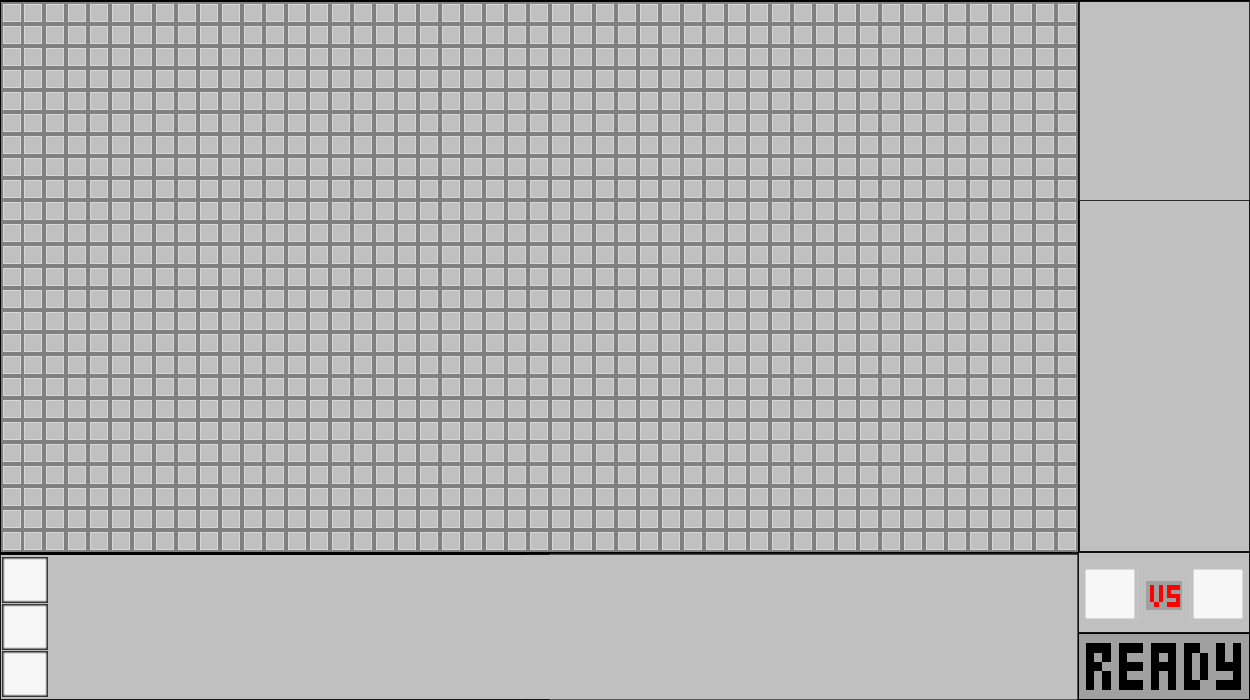
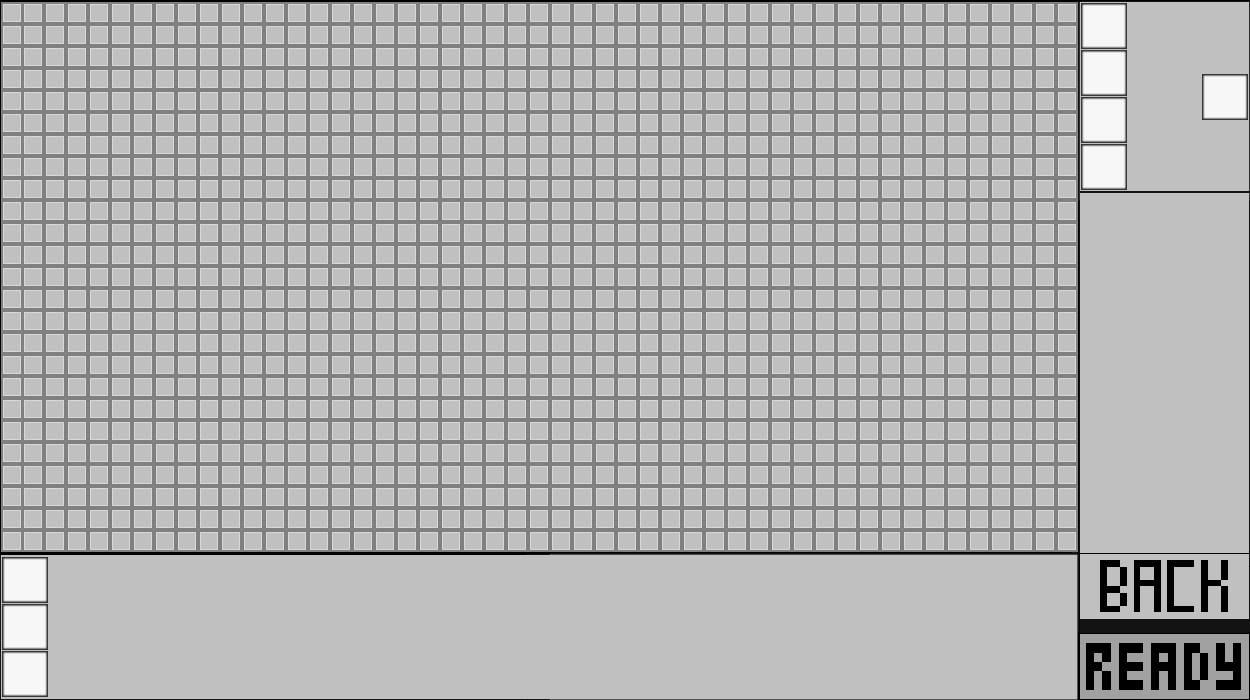
The prep for equips and move scrolls
The clam before the swarm

Changed region(s): [[0.8424, 0.0, 0.9984, 0.3], [0.8424, 0.78, 1.0, 0.9], [0.936, 0.09, 0.9984, 0.18]]

diff --git a/turn_based_battle/defs.py b/turn_based_battle/defs.py
@@ -957,9 +957,9 @@ instantkill.desc = "BAM! You dead now."
 
 
 class Equip(object):
-	def __init__(self, name, atk, int, con, mag, agil, crit, dodgeChance, lvl, slot):
+	def __init__(self, name, str, int, con, mag, agil, crit, dodgeChance, lvl, slot):
 		self.name = name
-		self.atk = atk
+		self.str = str
 		self.int = int
 		self.con = con
 		self.mag = mag
@@ -1020,6 +1020,14 @@ class Char(object):
 		self.aimisc = 0
 		self.isAi = False
 		self.equips = {"Head":emptySlot, "Chest":emptySlot, "Legs":emptySlot, "Feet":emptySlot, "Weapon":emptySlot}
+		self.equipStr = 0
+		self.equipInt = 0
+		self.equipCon = 0
+		self.equipMag = 0
+		self.equipAgil = 0
+		self.equipCrit = 0
+		self.equipDodgeChance = 0
+		self.ableSkills = []
 
 
 	def updateEquips(self):
@@ -1038,27 +1046,36 @@ class Char(object):
 	def buildNew(self):
 		newchar = Char(self.name, self.types, self.hp, self.str, self.int, self.con, self.mag, self.agil, self.crit, self.dodgeChance, self.lvl, self.xp, self.skills, self.ability, pygame.transform.scale(pygame.image.load(self.image), [50, 50]), self.cords, pygame.transform.scale(pygame.image.load(self.image), [42, 42]))
 		newchar.img = pygame.image.load(self.image)
+		newchar.ableSkills = self.ableSkills
 		newchar.target = [NOT]
 		return newchar
 		
 	def reBuild(self):
 		newchar = Char(self.name, self.types, self.hp, self.str, self.int, self.con, self.mag, self.agil, self.crit, self.dodgeChance, self.lvl, self.xp, self.skills, self.ability, self.image, self.cords, self.menuImg)
 		newchar.img = self.image
+		newchar.ableSkills = self.ableSkills
 		return newchar
 	
 		
 NOT = Char("???", [unknown], 0, 0, 0, 0, 0, 0, 0, 0, 1, 0, [nothing], "", "Assets/battlers/locked.png", [-1,0], "")
+NOT.ableSkills = [nothing]
 
 Mage = Char("Meigis", [normal, chaos], 500, 5, 15, 5, 15, 4, 0, 10, 1, 0, [basicAtk, fireBall, waterSpout, airBlast, earthShot, defend], "", "Assets/battlers/Mage.png", [5,0], "")
+Mage.ableSkills = [fireball, waterSpout, airBlast, earthShot]
 
 Mouther = Char("Mouther", [earth], 500, 20, 0, 10, 5, 4, 0, 10, 1, 0, [basicAtk, bite, consumeFlesh, defend], "", "Assets/battlers/Mouther.png", [4,0], "")
+Mouther.ableSkills = []
 
 Maice = Char("Maice", [normal], 500, 15, 15, 10, 10, 6, 2, 11, 1, 0, [basicAtk, slash, bite, eggon], "", "Assets/battlers/nazrin.png", [3, 0], "") 
+Maice.ableSkills = []
 
 Nic = Char("Nic", [chaos], 500, 15, 50, 10, 25, 4, 0, 10, 1, 0, [basicAtk, magicMute, shardSwarm, powerUp, defend], "", "Assets/battlers/nic.png", [5,8], "")
+Nic.ableSkills = []
 Epic = Char("Epic", [tech], 1000, 25, 50, 35, 45, 7, 10, 10, 1, 0, [basicAtk,energiBeam, wellspring, defend], "", "Assets/battlers/epic.png", [7,8], "")
+Epic.ableSkills = []
 
 Scarlet = Char("Scarlet", [dark, blood], 100, 20, 20, 5, 20, 6, 0, 10, 1, 0, [basicAtk, scar, vampire, destroy, lifePact, defend], "", "Assets/battlers/vamp.png", [1,0], "")
+Scarlet.ableSkills = [scar, vampire, destroy, lifePact, consumeFlesh]
 
 Flan = Char("Flan", [dark,blood], 200, 35, 30, 10, 20, 7, 10, 20, 1, 0, [slash, rip, scar, vampire, destroy, lifePact, setFire, lifeTransfer], "watch them burn", "Assets/battlers/flandre.png", [5,7], "")
 Nue = Char("Nue", [astral, dark], 300, 25, 40, 10, 50, 4, 15, 10, 1, 0, [basicAtk, meteorStorm, powerTransfer, forceShield, powerDrain, stab, meditate, defend], "Unidentifiable", "Assets/battlers/nue.png", [4,7], "")
@@ -1070,13 +1087,19 @@ Koishi = Char("Koishi", [unknown, physic], 400, 10, 55, 80, 100, 10, 6, 30, 1, 0
 Nou = Char("Nou Furueteru", [physic], 300, 10, 50, 55, 90, 11, 7, 25, 1, 0, [colorfulBullet, mindDisk, mindReading, recover, forceShield, rejuvinate, meditate, defend], "", "Assets/battlers/Nou.png", [8,8], "")
 
 Alpha = Char("Alpha", [normal, earth, fighting], 500, 50, -50, 30, 5, 5, 0, 10, 1, 0, [basicAtk, slash, cleave, bladeFlash, revenge, mend, defend], "", "Assets/battlers/alpha.png", [8,4], "")
+Alpha.ableSkills = [slash, cleave, bladeFlash, revenge, mend, windSlash] 
 Siv = Char("Siv", [normal, earth, dark, physic, chaos, magic], 250, 0, 50, 0, 38, 5, 7, 10, 1, 0, [basicAtk, chaosBolt, setFire, forceShield, chaosBeam, meditate, lifePact, shroud], "", "Assets/battlers/siv.png", [4,2], "")
+Siv.ableSkills = [chaosBolt, setFire, forceShield, chaosBeam, meditate, lifePact, shroud, confuse] 
 
 Durric = Char("Durric", [earth, light, fighting, physic], 1000, 25, 25, 75, 25, 0, 0, 1, 1, 0, [basicAtk, forceShield, cleave, obsidianBlast, recover, psionicRadiance, mend, takeBlow], "Regen", "Assets/battlers/Durric.png", [4, 4], "")
+Durric.ableSkills = [forceShield, cleave, obsidianBlast, recover, psionicRadiance, mend, takeBlow, rejuvinate, mindSpike]
 
 Coo33 = Char("Coo33", [dark, blood], 250, 50, 0, 30, 0, 10, 10, 10, 5, 0, [basicAtk, slash, bite, kick, dodge, rip, consumeFlesh, defend], "Blood hunt", "Assets/battlers/Coo33.png", [3,3], "")
+Coo33.ableSkills = []
 CoosomeJoe = Char("Coosome Joe", [light, tech], 500, 25, 25, 25, 25, 5, 2, 10, 1, 0, [basicAtk, bludgeon, erase, create2, confuse, planAhead, mend, defend], "Frenzy", "Assets/battlers/Coosome.png",  [3, 4], "")
+CoosomeJoe.ableSkills = []
 Catsome = Char("Catsome", [light, physic], 1000, 10, 35, 10, 15, 5, 5, 10, 1, 0, [slash, bite, eggon, rebuke, mend, recover], "Cuteness", "Assets/battlers/catsome.png",[6,9], "")
+Catsome.ableSkills = []
 Cubes = Char("Cubes", [tech], 400, 25, 35, 60, 30, 4, 5, 30, 1, 0, [zap, energiBeam, wellspring, planAhead, create3], "", "Assets/battlers/wip.png", [0,13], "")
 
 Creep = Char("Creepy Bald Guy", [physic, unknown], 750, 10, 10, 15, 50, 0, 0, 0, 1, 0, [creepyAtk, blink, stare, inhale, exhale, observe], "Creepus", "Assets/battlers/Creepy_Bald_Guy.png", [3, 15], "")

diff --git a/turn_based_battle/turn_based_battler.py b/turn_based_battle/turn_based_battler.py
@@ -125,7 +125,7 @@ def hitDetect(p1, p2, p3, p4):
 		return True
 
 unlockedchars = [defs.Koishi.buildNew(), defs.Lapis.buildNew(), defs.Flan.buildNew(), defs.Okuu.buildNew(), defs.Nue.buildNew(), defs.Scarlet.buildNew(), defs.Mage.buildNew(), defs.Mouther.buildNew(), defs.Nic.buildNew(), defs.Siv.buildNew(), defs.Coo33.buildNew(), defs.CoosomeJoe.buildNew(), defs.Epic.buildNew(), defs.Alpha.buildNew(), defs.Durric.buildNew(), defs.Creep.buildNew(), defs.Catsome.buildNew(), defs.KnowingEye.buildNew(), defs.Protagonist.buildNew(), defs.Worshipper.buildNew(), defs.miniCreep.buildNew(), defs.Axeurlegs.buildNew(), defs.Dandylion.buildNew(), defs.Cubes.buildNew()]
-
+equipment = []
 
 class Arena(object):
 	def __init__(self, name, effect, img):
@@ -811,6 +811,7 @@ class Player(object):
 		self.name = name
 		self.wins = 0
 		self.losses = 0
+		self.scrolls = []
 	
 		
 		self.x1 = 0
